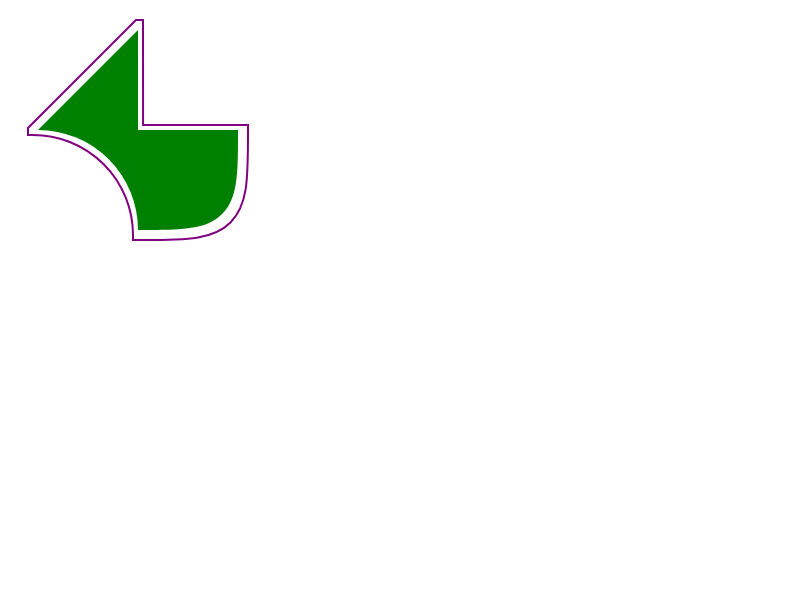
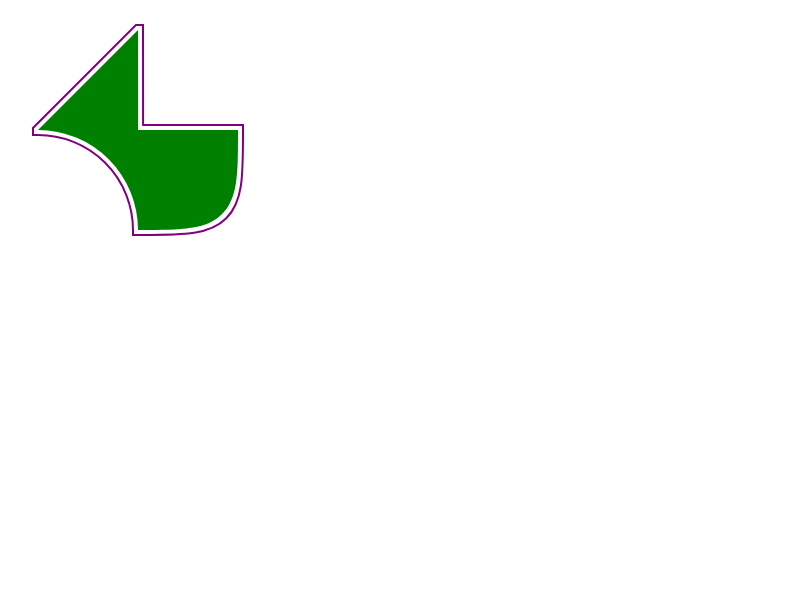
Fix corner-shape auto outline doubled offset and radii
When an element had both `corner-shape` and `outline: auto`,
changing `outline-offset` resulted in a doubled offset and radii.

This occurred because the rect and radii used to define the
contour's origin_rect, were already outset adjusted.

This CL calculate the origin_rect radii from
GetFocusRingCornerRadii at zero offset.

Bug: 556780780
Commit-Queue: Jason Leo <cgqaq@chromium.org>
Cr-Commit-Position: refs/heads/main@{#1714279}
NOKEYCHECK=True
GitOrigin-RevId: f24b606d102a837a225316f30ce57657a6fe7500

diff --git a/blink/web_tests/external/wpt/css/css-borders/corner-shape/corner-shape-outline-auto-002.html b/blink/web_tests/external/wpt/css/css-borders/corner-shape/corner-shape-outline-auto-002.html
@@ -1,0 +1,43 @@
+<!DOCTYPE html>
+<meta charset="utf-8">
+<title>'outline: auto' follows 'corner-shape' with positive 'outline-offset'</title>
+<link rel="help" href="https://drafts.csswg.org/css-borders-4/#corner-shape-rendering">
+<link rel="help" href="https://drafts.csswg.org/css-ui-4/#outline-style">
+<meta name="assert" content="Checks that 'outline: auto' follows the element's outer contour shaped by 'corner-shape', offset by a positive 'outline-offset'">
+<link rel="match" href="corner-shape-outline-auto-002-ref.html">
+<style>
+  #container {
+    position: relative;
+    width: 400px;
+    height: 400px;
+    background-color: gray;
+  }
+
+  #target {
+    position: absolute;
+    top: 100px;
+    left: 100px;
+
+    width: 200px;
+    height: 200px;
+    border-radius: 100px;
+
+    corner-shape: bevel notch squircle scoop;
+    outline: 3px auto red;
+    outline-offset: 50px;
+  }
+
+  svg {
+    position: absolute;
+  }
+</style>
+<div id="container">
+  <div id="target"></div>
+
+  <svg width="400" height="400">
+    <path d="M179.29 50H250v100h100v55.079c-.005 62.792-.412 97.602-23.866
+      121.055-23.453 23.454-58.263 23.86-121.055 23.866H150v-50a50 50 0 0
+      0-50-50H50v-70.71z"
+      fill="none" stroke="green" stroke-width="16" />
+  </svg>
+</div>

diff --git a/blink/web_tests/external/wpt/css/css-borders/corner-shape/corner-shape-outline-auto-003.html b/blink/web_tests/external/wpt/css/css-borders/corner-shape/corner-shape-outline-auto-003.html
@@ -1,0 +1,42 @@
+<!DOCTYPE html>
+<meta charset="utf-8">
+<title>'outline: auto' follows 'corner-shape' with negative 'outline-offset'</title>
+<link rel="help" href="https://drafts.csswg.org/css-borders-4/#corner-shape-rendering">
+<link rel="help" href="https://drafts.csswg.org/css-ui-4/#outline-style">
+<meta name="assert" content="Checks that 'outline: auto' follows the element's outer contour shaped by 'corner-shape', offset by a negative 'outline-offset'">
+<link rel="match" href="corner-shape-outline-auto-003-ref.html">
+<style>
+  #container {
+    position: relative;
+    width: 400px;
+    height: 400px;
+    background-color: gray;
+  }
+
+  #target {
+    position: absolute;
+    top: 100px;
+    left: 100px;
+
+    width: 200px;
+    height: 200px;
+    border-radius: 100px;
+
+    corner-shape: bevel notch squircle square;
+    outline: 3px auto red;
+    outline-offset: -20px;
+  }
+
+  svg {
+    position: absolute;
+  }
+</style>
+<div id="container">
+  <div id="target"></div>
+
+  <svg width="400" height="400">
+    <path d="M120 208.284V280h82.86c33.393-.004 51.922-.238 64.412-12.728
+      10.168-10.168 12.214-24.338 12.625-47.272H180v-71.717z"
+      fill="none" stroke="green" stroke-width="16" />
+  </svg>
+</div>

diff --git a/blink/web_tests/external/wpt/css/css-borders/corner-shape/corner-shape-outline-auto-001.html b/blink/web_tests/external/wpt/css/css-borders/corner-shape/corner-shape-outline-auto-001.html
@@ -1,0 +1,41 @@
+<!DOCTYPE html>
+<meta charset="utf-8">
+<title>'outline: auto' follows 'corner-shape'</title>
+<link rel="help" href="https://drafts.csswg.org/css-borders-4/#corner-shape-rendering">
+<link rel="help" href="https://drafts.csswg.org/css-ui-4/#outline-style">
+<meta name="assert" content="Checks that 'outline: auto' follows the element's outer contour shaped by 'corner-shape'.">
+<link rel="match" href="corner-shape-outline-auto-001-ref.html">
+<style>
+  #container {
+    position: relative;
+    width: 400px;
+    height: 400px;
+    background-color: gray;
+  }
+
+  #target {
+    position: absolute;
+    top: 100px;
+    left: 100px;
+
+    width: 200px;
+    height: 200px;
+    border-radius: 100px;
+
+    corner-shape: bevel notch squircle scoop;
+    outline: 3px auto red;
+  }
+
+  svg {
+    position: absolute;
+  }
+</style>
+<div id="container">
+  <div id="target"></div>
+
+  <svg width="400" height="400">
+    <path d="M200 100h0v100h100c0 44.005.142 68.037-15.91 84.09C268.037
+      300.142 244.005 300 200 300h0a100 100 0 0 0-100-100h0z"
+      fill="none" stroke="green" stroke-width="16" />
+  </svg>
+</div>

diff --git a/blink/web_tests/external/wpt/css/css-borders/corner-shape/corner-shape-outline-auto-002-ref.html b/blink/web_tests/external/wpt/css/css-borders/corner-shape/corner-shape-outline-auto-002-ref.html
@@ -1,0 +1,13 @@
+<!DOCTYPE html>
+<meta charset="utf-8">
+<style>
+  svg {
+    background-color: gray;
+  }
+</style>
+<svg width="400" height="400">
+  <path d="M179.29 50H250v100h100v55.079c-.005 62.792-.412 97.602-23.866
+    121.055-23.453 23.454-58.263 23.86-121.055 23.866H150v-50a50 50 0 0
+    0-50-50H50v-70.71z"
+    fill="none" stroke="green" stroke-width="16" />
+</svg>

diff --git a/blink/web_tests/external/wpt/css/css-borders/corner-shape/corner-shape-outline-auto-003-ref.html b/blink/web_tests/external/wpt/css/css-borders/corner-shape/corner-shape-outline-auto-003-ref.html
@@ -1,0 +1,12 @@
+<!DOCTYPE html>
+<meta charset="utf-8">
+<style>
+  svg {
+    background-color: gray;
+  }
+</style>
+<svg width="400" height="400">
+  <path d="M120 208.284V280h82.86c33.393-.004 51.922-.238 64.412-12.728
+    10.168-10.168 12.214-24.338 12.625-47.272H180v-71.717z"
+    fill="none" stroke="green" stroke-width="16" />
+</svg>

diff --git a/blink/web_tests/external/wpt/css/css-borders/corner-shape/corner-shape-outline-auto-001-ref.html b/blink/web_tests/external/wpt/css/css-borders/corner-shape/corner-shape-outline-auto-001-ref.html
@@ -1,0 +1,12 @@
+<!DOCTYPE html>
+<meta charset="utf-8">
+<style>
+  svg {
+    background-color: gray;
+  }
+</style>
+<svg width="400" height="400">
+  <path d="M200 100h0v100h100c0 44.005.142 68.037-15.91 84.09C268.037
+    300.142 244.005 300 200 300h0a100 100 0 0 0-100-100h0z"
+    fill="none" stroke="green" stroke-width="16" />
+</svg>

diff --git a/blink/renderer/core/paint/outline_painter.cc b/blink/renderer/core/paint/outline_painter.cc
@@ -764,15 +764,19 @@ float DefaultFocusRingCornerRadius(const ComputedStyle& style) {
 FloatRoundedRect::Radii GetFocusRingCornerRadii(
     const ComputedStyle& style,
     const PhysicalRect& reference_border_rect,
-    const LayoutObject::OutlineInfo& info) {
+    int offset) {
   if (style.HasBorderRadius() &&
       ((style.HasEffectiveAppearance() && style.HasBaseEffectiveAppearance()) ||
        style.HasAuthorBorderRadius())) {
-    auto radii = ComputeCornerRadii(style, reference_border_rect, info.offset);
+    auto radii = ComputeCornerRadii(style, reference_border_rect, offset);
     radii.SetMinimumRadius(DefaultFocusRingCornerRadius(style));
     return radii;
   }
 
+  // TODO(crbug.com/556790355): If the `border-radius` of `appearance: auto`
+  // elements ends up being specified in `layout/layout_theme.cc`,
+  // as was done for |AppearanceValue::kRadio| in (crbug.com/40877887),
+  // this part could be removed:
   if (!style.HasAuthorBorder() && style.HasEffectiveAppearance()) {
     // For the elements that have not been styled and that have an appearance,
     // the focus ring should use the same border radius as the one used for
@@ -817,6 +821,7 @@ void PaintSingleFocusRing(
     float width,
     int offset,
     const FloatRoundedRect::Radii& corner_radii,
+    const FloatRoundedRect::Radii& origin_corner_radii,
     const ContouredRect::CornerCurvature& corner_curvature,
     const Color& color,
     const AutoDarkMode& auto_dark_mode) {
@@ -827,19 +832,18 @@ void PaintSingleFocusRing(
 
   SkRect rect;
   if (path.isRect(&rect)) {
+    const auto target_rect =
+        FloatRoundedRect(gfx::SkRectToRectF(rect), corner_radii);
+
     if (corner_curvature.IsRound()) {
-      context.DrawFocusRingRect(
-          SkRRect(FloatRoundedRect(gfx::SkRectToRectF(rect), corner_radii)),
-          color, width, auto_dark_mode);
+      context.DrawFocusRingRect(SkRRect(target_rect), color, width,
+                                auto_dark_mode);
     } else {
-      ContouredRect border_rect(
-          FloatRoundedRect(gfx::SkRectToRectF(rect), corner_radii),
-          corner_curvature);
-      ContouredRect contour(border_rect);
-      const auto outset = AdjustedOutlineOffset(rects[0], offset);
-      contour.OutsetWithCornerCorrection(gfx::OutsetsF::TLBR(
-          outset.top(), outset.left(), outset.bottom(), outset.right()));
-      contour.SetOriginRect(border_rect.AsRoundedRect());
+      ContouredRect contour(target_rect, corner_curvature);
+      auto origin_rect = target_rect;
+      origin_rect.Inset(offset);
+      origin_rect.SetRadii(origin_corner_radii);
+      contour.SetOriginRect(origin_rect);
       context.DrawFocusRingPath(contour.GetPath().GetSkPath(), color, width, 0,
                                 auto_dark_mode);
     }
@@ -874,7 +878,6 @@ Color FocusRingInnerColor(const ComputedStyle& style) {
 void PaintFocusRing(GraphicsContext& context,
                     const Vector<gfx::Rect>& rects,
                     const ComputedStyle& style,
-                    const FloatRoundedRect::Radii& corner_radii,
                     const LayoutObject::OutlineInfo& info,
                     const LayoutObject* layout_object,
                     const PhysicalRect& border_rect) {
@@ -913,6 +916,17 @@ void PaintFocusRing(GraphicsContext& context,
     return;
   }
 
+  const FloatRoundedRect::Radii corner_radii =
+      GetFocusRingCornerRadii(style, border_rect, info.offset);
+
+  // TODO(crbug.com/556790355): The corner radii of elements with
+  // 'appearance: auto' are currently not offset-adjusted
+  // and are not floored to the minimum radius.
+  // Once this is fixed, we could call |GetFocusRingCornerRadii()| once and
+  // call |Outset()| and |SetMinimumRadius()| on its result.
+  const FloatRoundedRect::Radii origin_corner_radii =
+      GetFocusRingCornerRadii(style, border_rect, 0);
+
   const ContouredRect::CornerCurvature corner_curvature(
       corner_radii.TopLeft().IsEmpty() ? ContouredRect::CornerCurvature::kRound
                                        : style.CornerTopLeftShape().Exponent(),
@@ -928,13 +942,15 @@ void PaintFocusRing(GraphicsContext& context,
 
   PaintSingleFocusRing(context, rects, outer_ring_width,
                        offset + std::ceil(inner_ring_width), corner_radii,
-                       corner_curvature, outer_color, AutoDarkMode::Disabled());
+                       origin_corner_radii, corner_curvature, outer_color,
+                       AutoDarkMode::Disabled());
   // Draw the inner ring using |outer_ring_width| (which should be wider than
   // the additional offset of the outer ring) over the outer ring to ensure no
   // gaps or AA artifacts.
   DCHECK_GE(outer_ring_width, std::ceil(inner_ring_width));
   PaintSingleFocusRing(context, rects, outer_ring_width, offset, corner_radii,
-                       corner_curvature, inner_color, AutoDarkMode::Disabled());
+                       origin_corner_radii, corner_curvature, inner_color,
+                       AutoDarkMode::Disabled());
 }
 }  // anonymous namespace
 
@@ -1018,9 +1034,8 @@ void OutlinePainter::PaintOutlineRects(
   }
 
   if (style.OutlineStyleIsAuto()) {
-    auto corner_radii = GetFocusRingCornerRadii(style, outline_rects[0], info);
-    PaintFocusRing(paint_info.context, pixel_snapped_outline_rects, style,
-                   corner_radii, info, layout_object, outline_rects[0]);
+    PaintFocusRing(paint_info.context, pixel_snapped_outline_rects, style, info,
+                   layout_object, outline_rects[0]);
     return;
   }
 
